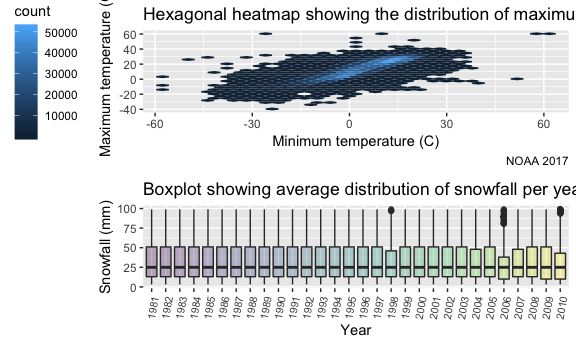
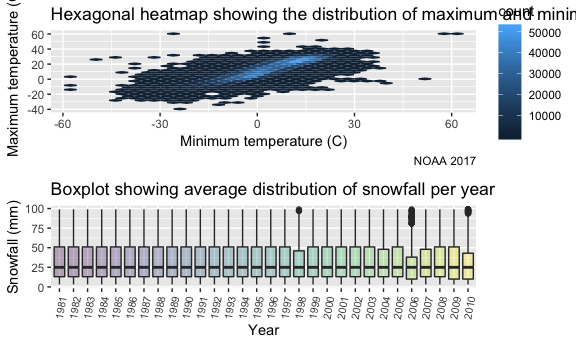
Final_3

diff --git a/p8105_hw3_ay2416.md b/p8105_hw3_ay2416.md
@@ -80,7 +80,7 @@ brfss_df %>%
   summarise(number = n()) %>% 
   ggplot(aes(x = year, y = number, color = locationabbr)) +
   geom_line() +
-  theme(legend.position = "left") +
+  theme(legend.position = "right") +
   labs(
     title = "Spagetti plot showing the distribution of 50 US states",
     x = "Year",
@@ -336,7 +336,7 @@ I'm making a two-panel plot showing (i) tmax vs tmin for the full dataset (note 
 ``` r
 my_hex = ggplot(noaa_df, aes(x = tmin, y = tmax)) +
   geom_hex(aes()) +
-  theme(legend.position = "left") + 
+  theme(legend.position = "right") + 
   labs(
     x = "Minimum temperature (C)",
     y = "Maximum temperature (C)",
